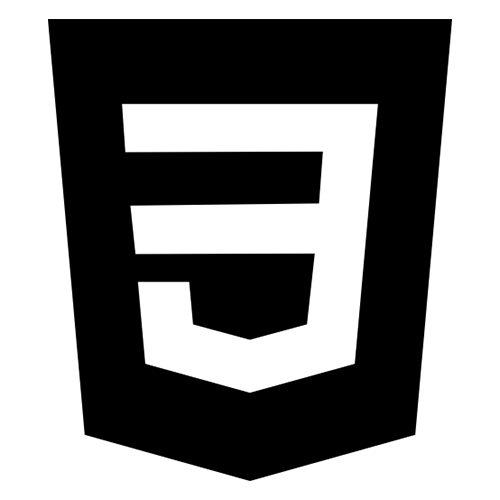
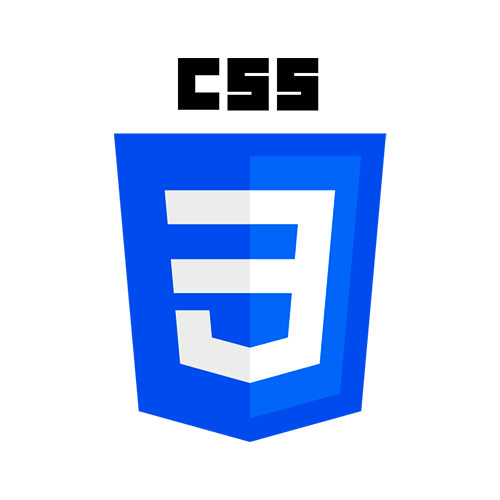
Finalizando Estilização da seção Tecnologia

diff --git a/src/styles/styles.css b/src/styles/styles.css
@@ -1,8 +1,12 @@
 @charset "UTF-8";
+.blue {
+  color: #ADC5D9;
+}
+
 .hidden {
   opacity: 0;
   filter: blur(5px);
-  transform: translateX(-100%);
+  transform: translateX(100%);
   transition: all 2s;
 }
 
@@ -14,13 +18,13 @@
 
 html {
   scroll-behavior: smooth;
+  overflow-x: hidden;
 }
 
 body {
   margin: 0;
   padding: 0;
   box-sizing: border-box;
-  overflow-x: hidden;
 }
 
 /* Barra de Rolagem */
@@ -333,48 +337,76 @@ header .margin-header #nav-mobile ul li a:hover::after {
 }
 #tecnologia {
   width: 100vw;
-  height: 70vh;
+  height: 600px;
   background-color: #024959;
+  display: flex;
 }
-#tecnologia #title-tec {
+#tecnologia #content-tecnologia {
   width: 80%;
   margin: 0 auto;
+  display: flex;
+  justify-content: space-between;
+  align-items: center;
+}
+#tecnologia #content-tecnologia #banner-tec {
+  width: auto;
+  height: 70%;
+}
+#tecnologia #content-tecnologia #banner-tec #img-banner {
   height: 100%;
+  transition: opacity 0.5s ease;
+  width: 100%;
+}
+#tecnologia #content-tecnologia #titulo-tec {
+  width: 40%;
   display: flex;
   flex-direction: column;
-  align-items: center;
+  align-items: end;
 }
-#tecnologia #title-tec .line {
-  display: inline-block; /* Mantém o span como um elemento em linha */
-  width: 0; /* Começa com largura zero */
-  border-bottom: 2px solid #ffffff; /* Define a cor e a espessura da linha */
-  transition: width 1s ease; /* Adiciona uma transição suave para a largura */
-}
-#tecnologia #title-tec .line.active {
-  width: 60%; /* Expande a linha para 100% da largura do contêiner */
-}
-#tecnologia #title-tec h1 {
+#tecnologia #content-tecnologia #titulo-tec h1 {
   font-family: "Freeman", sans-serif;
   font-size: 3rem;
-  color: #D8E6F2;
-  font-weight: 400;
-  text-transform: uppercase;
-  text-align: center;
-  margin: 2rem 0 0 0;
+  color: #fff;
+  font-weight: 300;
+  margin: 0;
   padding: 0;
+  text-align: right;
+  text-transform: uppercase;
 }
-#tecnologia #info-tec {
-  width: 80%;
-  margin: 0 auto;
-  display: flex;
-}
-#tecnologia #info-tec #left-info-tec {
-  display: flex;
-  align-items: center;
+#tecnologia #content-tecnologia #titulo-tec p {
+  font-family: "Monteserrat", sans-serif;
+  font-size: 1rem;
+  color: #fff;
+  font-weight: 300;
+  margin: 1rem 0 0 0;
+  padding: 0;
+  text-align: right;
+  text-transform: uppercase;
 }
 
 @media only screen and (max-width: 840px) {
-  #tecnologia #title-tec h1 {
+  #tecnologia {
+    height: 300px;
+  }
+  #tecnologia #content-tecnologia {
+    flex-direction: column;
+    justify-content: space-around;
+    margin-bottom: 2rem;
+    margin-top: 2rem;
+  }
+  #tecnologia #content-tecnologia #banner-tec {
+    height: 40%;
+  }
+  #tecnologia #content-tecnologia #titulo-tec {
+    width: auto;
+    display: flex;
+    align-items: center;
+  }
+  #tecnologia #content-tecnologia #titulo-tec h1 {
     font-size: 2rem;
+    text-align: center;
+  }
+  #tecnologia #content-tecnologia #titulo-tec p {
+    text-align: center;
   }
 }/*# sourceMappingURL=styles.css.map */

diff --git a/src/styles/components/_tecnologia.scss b/src/styles/components/_tecnologia.scss
@@ -6,60 +6,82 @@
 
 #tecnologia {
     width: 100vw;
-    height: 70vh;
+    height: 600px;
     background-color: var.$cor-2;
+    display: flex;
 
-    #title-tec {
+    #content-tecnologia {
         @include mixins.margem-central(80%);
-        height: 100%;
         display: flex;
-        flex-direction: column;
+        justify-content: space-between;
         align-items: center;
 
-        .line {
-            display: inline-block; /* Mantém o span como um elemento em linha */
-            width: 0; /* Começa com largura zero */
-            border-bottom: 2px solid #ffffff; /* Define a cor e a espessura da linha */
-            transition: width 1s ease; /* Adiciona uma transição suave para a largura */
+        #banner-tec {
+            width: auto;
+            height: 70%;
+
+            #img-banner {
+                height: 100%;
+                transition: opacity 0.5s ease;
+                width: 100%;
+            }
         }
         
-        .line.active {
-            width: 60%; /* Expande a linha para 100% da largura do contêiner */
-        }
 
-        h1 {
-            @include mixins.ff-fs-cl(var.$text-t, 3rem, var.$cor-5, 400);
-            text-transform: uppercase;
-            text-align: center;
-            margin: 2rem 0 0 0;
-            padding: 0;
-        }
-    }
 
-    #info-tec {
-        @include mixins.margem-central(80%);
-        display: flex;
-
-        #left-info-tec {
+        #titulo-tec {
+            width: 40%;
             display: flex;
-            align-items: center;
+            flex-direction: column;
+            align-items: end;
 
-            
+            h1 {
+                @include mixins.ff-fs-cl(var.$text-t, 3rem, var.$cor-branca, 300);
+                margin: 0;
+                padding: 0;
+                text-align: right;
+                text-transform: uppercase;
+            }
+
+            p {
+                @include mixins.ff-fs-cl(var.$text-p, 1rem, var.$cor-branca, 300);
+                margin: 1rem 0 0 0;
+                padding: 0;
+                text-align: right;
+                text-transform: uppercase;
+            }
         }
     }
-    
 }
 
 
 
 @media only screen and (max-width:840px){
     #tecnologia {
+        height: 300px;
 
-        #title-tec{
+        #content-tecnologia {   
+            flex-direction: column;
+            justify-content: space-around;
+            margin-bottom: 2rem;
+            margin-top: 2rem;
 
-            h1 {
-                font-size: 2rem;
+            #banner-tec {
+                height: 40%;
             }
+
+            #titulo-tec{
+                width: auto;
+                display: flex;
+                align-items: center;
+                h1 {
+                    font-size: 2rem;
+                    text-align: center;
+                }
+                p {
+                    text-align: center;
+                }
+            } 
         }
     }
 }

diff --git a/src/script/script.js b/src/script/script.js
@@ -22,7 +22,7 @@ window.addEventListener('scroll', function() {
     const header = document.getElementById('header');
     const scrollPosition = window.scrollY;
 
-    if (scrollPosition > 50) { // Alterar para o valor desejado para ativar a transição
+    if (scrollPosition > 50) {
         header.classList.add('scrolled');
         header.classList.remove('transparente');
     } else {
@@ -45,20 +45,24 @@ const hiddenElemente = document.querySelectorAll(".hidden");
 hiddenElemente.forEach((el)=> observer.observe(el));
 
 
-// Animação Linha Seção Tecnologias Utilizadas
-document.addEventListener('DOMContentLoaded', function() {
-    const line = document.querySelector('.line');
-    const container = document.querySelector('#title-tec');
+// Declarando Variaveis para
+let imagens = ['../src/assets/tecnologias/html.png', '../src/assets/tecnologias/css.png', '../src/assets/tecnologias/js.png', '../src/assets/tecnologias/c++.png' , '../src/assets/tecnologias/py.png'];
+let index = 0;
+let time = 5000;
 
-    function checkScroll() {
-        const containerPosition = container.getBoundingClientRect().top;
-        const screenPosition = window.innerHeight / 1.5;
+// Função Slide
+function slideShow() {
+    document.getElementById('img-banner').style.opacity = '0';
+    setTimeout(function() {
+        document.getElementById('img-banner').src = imagens[index];
+        index++;
 
-        if (containerPosition < screenPosition) {
-            line.classList.add('active');
-            window.removeEventListener('scroll', checkScroll); // Remove o evento após a ativação
+        if (index == imagens.length) {
+            index = 0;
         }
-    }
 
-    window.addEventListener('scroll', checkScroll);
-});
+        document.getElementById('img-banner').style.opacity = '1';
+    }, 200);
+    setTimeout(slideShow, time);
+}
+slideShow();

diff --git a/index.html b/index.html
@@ -94,24 +94,15 @@
         <!-- Seção Tecnologia Utilizada 2 -->
         <section id="tecnologia">
             <div id="content-tecnologia">
-                <!-- Cima -->
-                <div id="title-tec">
-                    <h1>Tecnologias Utilizadas</h1>
-                    <span class="line"></span>
+                <!-- Esquerda -->
+                <div id="banner-tec">
+                    <img id="img-banner" src="" alt="">
                 </div>
 
-                <!-- Baixo -->
-                <div id="info-tec">
-                    <!-- Esquerda -->
-                    <div id="left-info-tec">
-                        <img class="img-tec" src="src/assets/tecnologias/html.png" alt="">
-                    </div>
-
-                    <!-- Direita -->
-                    <div id="right-info-tec">
-                        <h1>HTML 5</h1>
-                        <p>Lorem ipsum dolor sit amet consectetur adipisicing elit. Hic recusandae ipsum vitae vero perspiciatis, sequi neque fugit impedit sapiente natus, sunt dolores quos fuga explicabo nulla temporibus eveniet fugiat asperiores.</p>
-                    </div>
+                <!-- Direita-->
+                <div id="titulo-tec">
+                    <h1>Tecnologias <strong class="blue">Utilizadas</strong></h1>
+                    <p>Html 5 | Css 3 | JavaScript | C++ | Python</p>
                 </div>
             </div>
         </section>

diff --git a/src/styles/abstract/_var.scss b/src/styles/abstract/_var.scss
@@ -16,11 +16,16 @@ $gradiente-2: linear-gradiente(180deg, $cor-4 0%, $cor-3 86.78%);
 $text-p: 'Monteserrat', sans-serif;
 $text-t: 'Freeman', sans-serif;
 
+// Strong
+.blue {
+    color: $cor-4;
+}
+
 // Efeito
 .hidden{
     opacity: 0;
     filter: blur(5px);
-    transform: translateX(-100%);
+    transform: translateX(100%);
     transition: all 2s;
 }
 .show{

diff --git a/src/styles/abstract/_root.scss b/src/styles/abstract/_root.scss
@@ -2,13 +2,13 @@
 
 html {
     scroll-behavior: smooth;
+    overflow-x: hidden;
 }
 
 body {
     margin: 0;
     padding: 0;
     box-sizing: border-box;
-    overflow-x: hidden;
 }
 
 // Personalizando Barra de Rolagem
